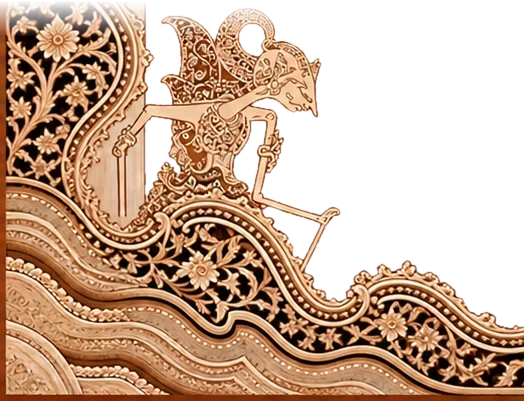
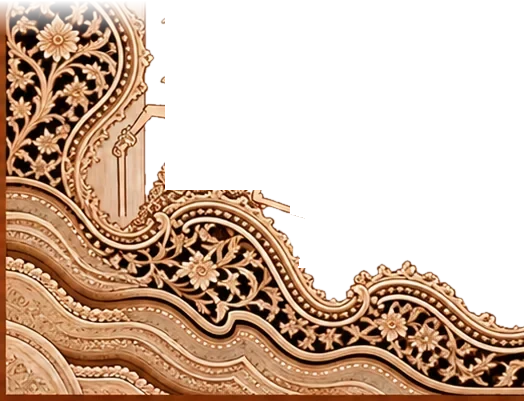
Mobile cover: slimmer gebyok sides, smaller names, swaying wayang
Wayang are split out of the bottom-corner images into their own layers
and rock on their feet with a transform-only CSS animation.

Changed region(s): [[0.3053, 0.0, 0.6107, 0.4788], [0.5496, 0.5087, 0.6718, 0.6883]]

diff --git a/index.html b/index.html
@@ -73,13 +73,21 @@ body.locked .forest.fixed,body.locked #main{visibility:hidden}
     url(img/m/top-r.webp) right top/50.15% auto no-repeat,
     url(img/m/bot-l.webp) left bottom/50.15% auto no-repeat,
     url(img/m/bot-r.webp) right bottom/50.15% auto no-repeat,
-    url(img/m/side-l.webp) left top/22.97% auto repeat-y,
-    url(img/m/side-r.webp) right top/22.97% auto repeat-y}
+    url(img/m/side-l.webp) left top/19% auto repeat-y,
+    url(img/m/side-r.webp) right top/19% auto repeat-y}
+  /* the wayang are cut out of bot-l / bot-r into their own layers, laid exactly over them,
+     and rock gently on their feet; transform-only so it stays on the GPU */
+  .gebyok .wy{display:block;position:absolute;bottom:0;width:50.15%;aspect-ratio:524/401;background:center/100% no-repeat;will-change:transform;animation:wsway 3.6s ease-in-out infinite alternate}
+  .gebyok .wy.l{left:0;background-image:url(img/m/wayang-l.webp);transform-origin:43.9% 47.4%}
+  .gebyok .wy.r{right:0;background-image:url(img/m/wayang-r.webp);transform-origin:57.25% 47.9%;animation-delay:-1.8s}
 }
+.wy{display:none}
+@keyframes wsway{from{transform:rotate(-2deg)}to{transform:rotate(2deg)}}
+@media (prefers-reduced-motion:reduce){.gebyok .wy{animation:none}}
 @media (max-width:959px){
   /* lighter type and button on the opening screens */
   .window-content .wedding-of{font-size:1.1rem}
-  .window-content .names{font-size:clamp(2.1rem,9.5vw,2.6rem)}
+  .window-content .names{font-size:clamp(1.8rem,8vw,2.2rem)}
   .window-content .date{font-size:.72rem;letter-spacing:.24em}
   .window-content .label{font-size:.68rem}
   .guest{margin:16px 0 14px}
@@ -351,7 +359,7 @@ nav.bottom svg{width:20px;height:20px}
 <!-- ===== COVER ===== -->
 <div id="cover">
   <div class="forest" data-forest></div>
-  <div class="gebyok" aria-hidden="true"></div>
+  <div class="gebyok" aria-hidden="true"><i class="wy l"></i><i class="wy r"></i></div>
   <div class="melati"><img class="m-layer m-leaves" src="img/melati-leaves.webp" alt=""><img class="m-layer m-blooms" src="img/melati-blooms.webp" alt=""></div>
   <div class="bloom tr"><img src="img/orchid.webp" alt=""></div>
   <div class="window-content">
@@ -374,7 +382,7 @@ nav.bottom svg{width:20px;height:20px}
 <div class="forest fixed" data-forest aria-hidden="true"></div>
 <aside class="side" aria-hidden="true">
   <div class="forest" data-forest></div>
-  <div class="gebyok" aria-hidden="true"></div>
+  <div class="gebyok" aria-hidden="true"><i class="wy l"></i><i class="wy r"></i></div>
   <div class="melati"><img class="m-layer m-leaves" src="img/melati-leaves.webp" alt=""><img class="m-layer m-blooms" src="img/melati-blooms.webp" alt=""></div>
   <div class="bloom tr"><img src="img/orchid.webp" alt=""></div>
   <div class="window-content">
@@ -389,7 +397,7 @@ nav.bottom svg{width:20px;height:20px}
 <main id="main">
   <!-- HERO -->
   <section id="home">
-    <div class="gebyok" aria-hidden="true"></div>
+    <div class="gebyok" aria-hidden="true"><i class="wy l"></i><i class="wy r"></i></div>
     <div class="melati"><img class="m-layer m-leaves" src="img/melati-leaves.webp" alt=""><img class="m-layer m-blooms" src="img/melati-blooms.webp" alt=""></div>
     <div class="bloom tr"><img src="img/orchid.webp" alt=""></div>
     <div class="window-content">
